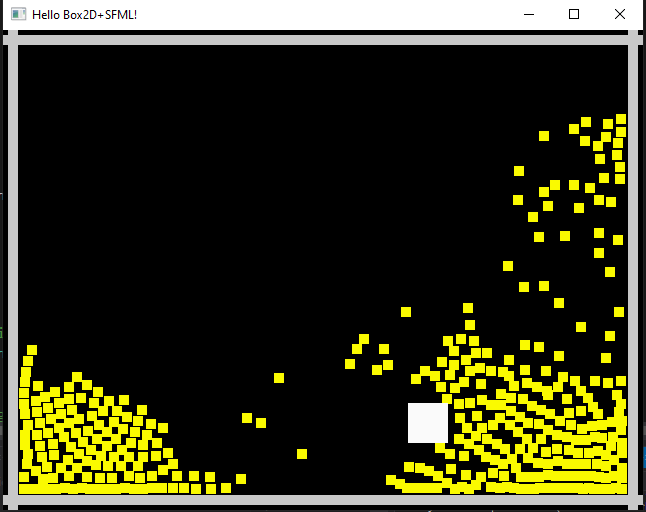
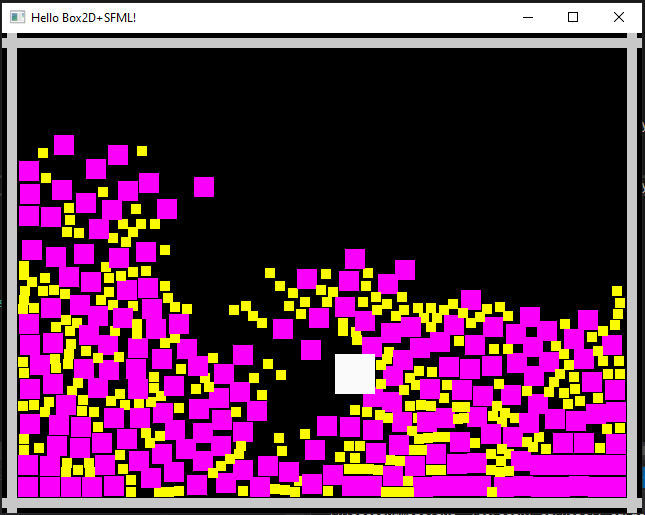
Add objects of different sizes

diff --git a/PhysicsExample/PhysicsExample/Program.cs b/PhysicsExample/PhysicsExample/Program.cs
@@ -52,6 +52,9 @@ namespace PhysicsExample
                 case Keyboard.Key.Space:
                     list.Add(new GameObject(in world, in window, new Vector2f(WIDTH / 2, HEIGHT / 2), new Vector2f(10, 10), BodyType.DynamicBody, new SFML.Graphics.Color(250, 250, 0)));
                     break;
+                case Keyboard.Key.Enter:
+                    list.Add(new GameObject(in world, in window, new Vector2f(WIDTH / 2, HEIGHT / 2), new Vector2f(20, 20), BodyType.DynamicBody, new SFML.Graphics.Color(250, 0, 250)));
+                    break;
             }
         }
 
@@ -85,11 +88,11 @@ namespace PhysicsExample
             window.KeyPressed += OnKeyPressed;
             window.KeyReleased += OnKeyReleased;
 
-            GameObject g = new GameObject(in world, in window, new Vector2f(WIDTH / 2, HEIGHT / 2), new Vector2f(40,40), BodyType.DynamicBody, new SFML.Graphics.Color(250, 250, 250));
-            GameObject f1 = new GameObject(in world, in window, new Vector2f(WIDTH / 2, HEIGHT-10), new Vector2f(1000, 10), BodyType.StaticBody, new SFML.Graphics.Color(200, 200, 200));
+            GameObject g = new GameObject(in world, in window, new Vector2f(WIDTH / 2, HEIGHT / 2), new Vector2f(40, 40), BodyType.DynamicBody, new SFML.Graphics.Color(250, 250, 250));
+            GameObject f1 = new GameObject(in world, in window, new Vector2f(WIDTH / 2, HEIGHT - 10), new Vector2f(1000, 10), BodyType.StaticBody, new SFML.Graphics.Color(200, 200, 200));
             GameObject f2 = new GameObject(in world, in window, new Vector2f(WIDTH / 2, 10), new Vector2f(1000, 10), BodyType.StaticBody, new SFML.Graphics.Color(200, 200, 200));
             GameObject f3 = new GameObject(in world, in window, new Vector2f(10, HEIGHT / 2), new Vector2f(10, 1000), BodyType.StaticBody, new SFML.Graphics.Color(200, 200, 200));
-            GameObject f4 = new GameObject(in world, in window, new Vector2f(WIDTH-10, HEIGHT / 2), new Vector2f(10, 1000), BodyType.StaticBody, new SFML.Graphics.Color(200, 200, 200));
+            GameObject f4 = new GameObject(in world, in window, new Vector2f(WIDTH - 10, HEIGHT / 2), new Vector2f(10, 1000), BodyType.StaticBody, new SFML.Graphics.Color(200, 200, 200));
 
             float time_step = (1.0f / 60.0f);
 
@@ -105,7 +108,7 @@ namespace PhysicsExample
                 window.DispatchEvents();
 
                 world.Step(time_step, velocity_iterations, position_iterations);
-                
+
                 g.ApplyLinearImpulse(force);
                 g.UpdateSFMLObject();
 
